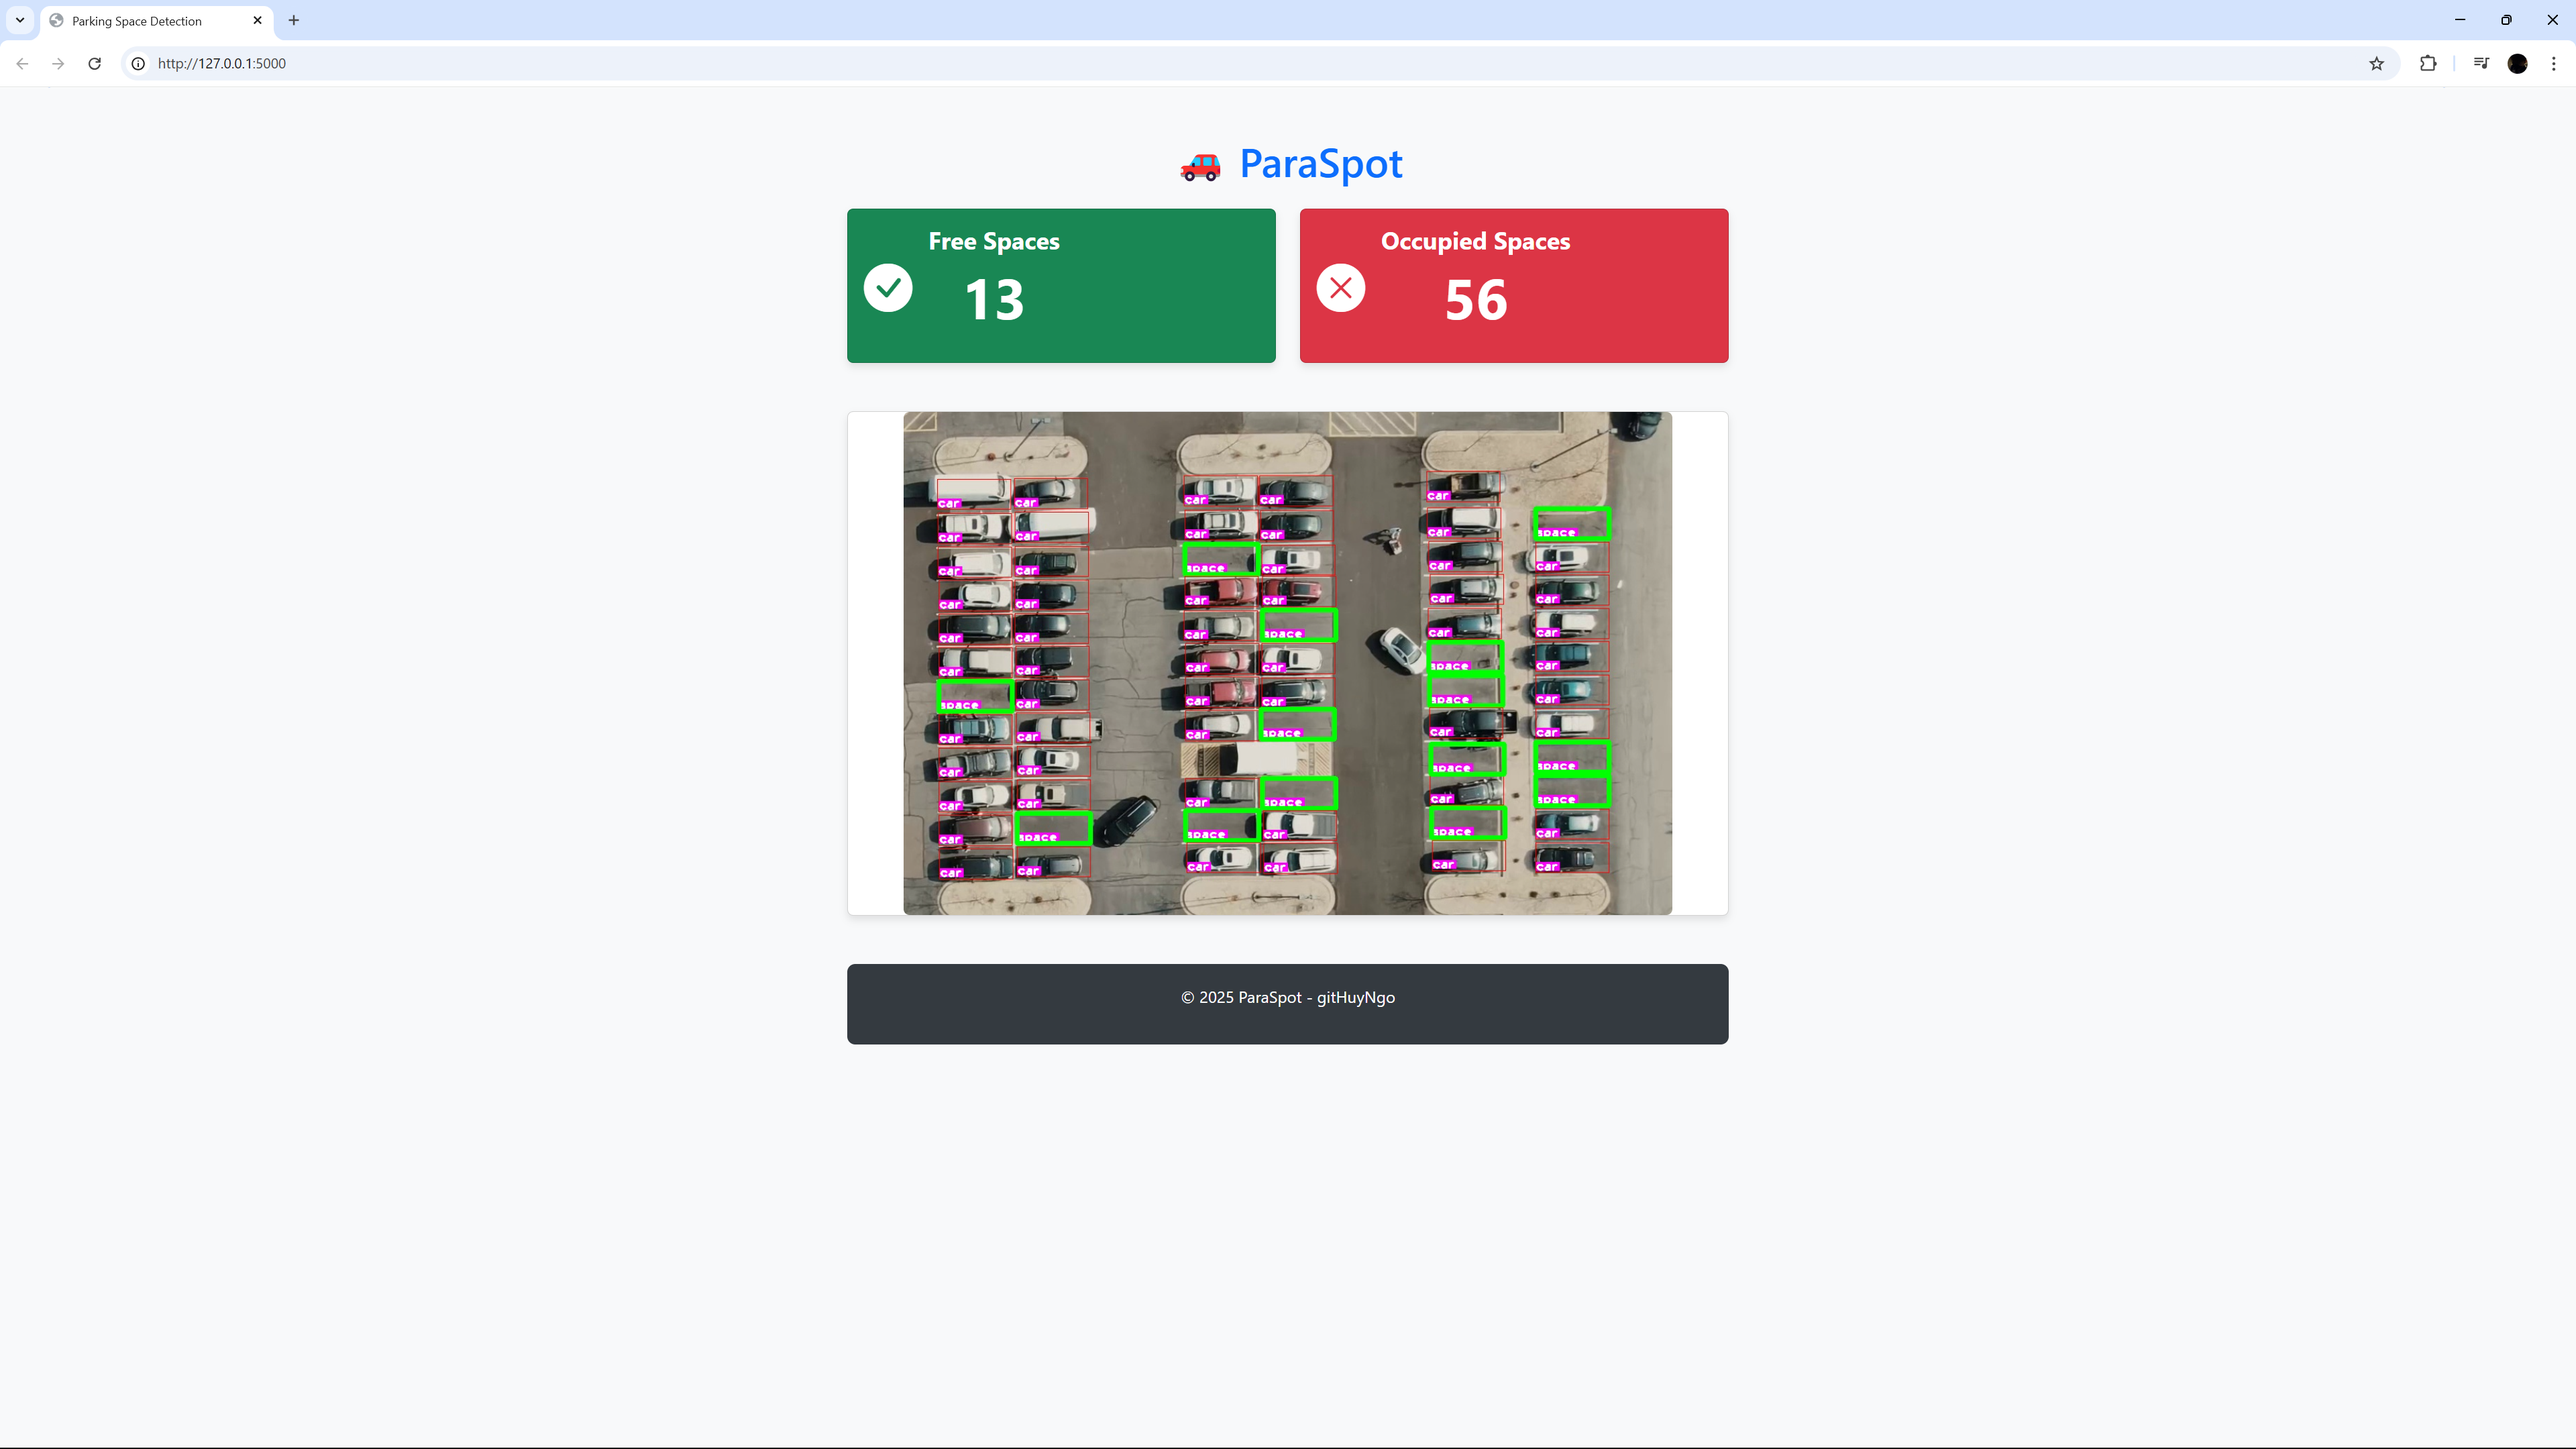
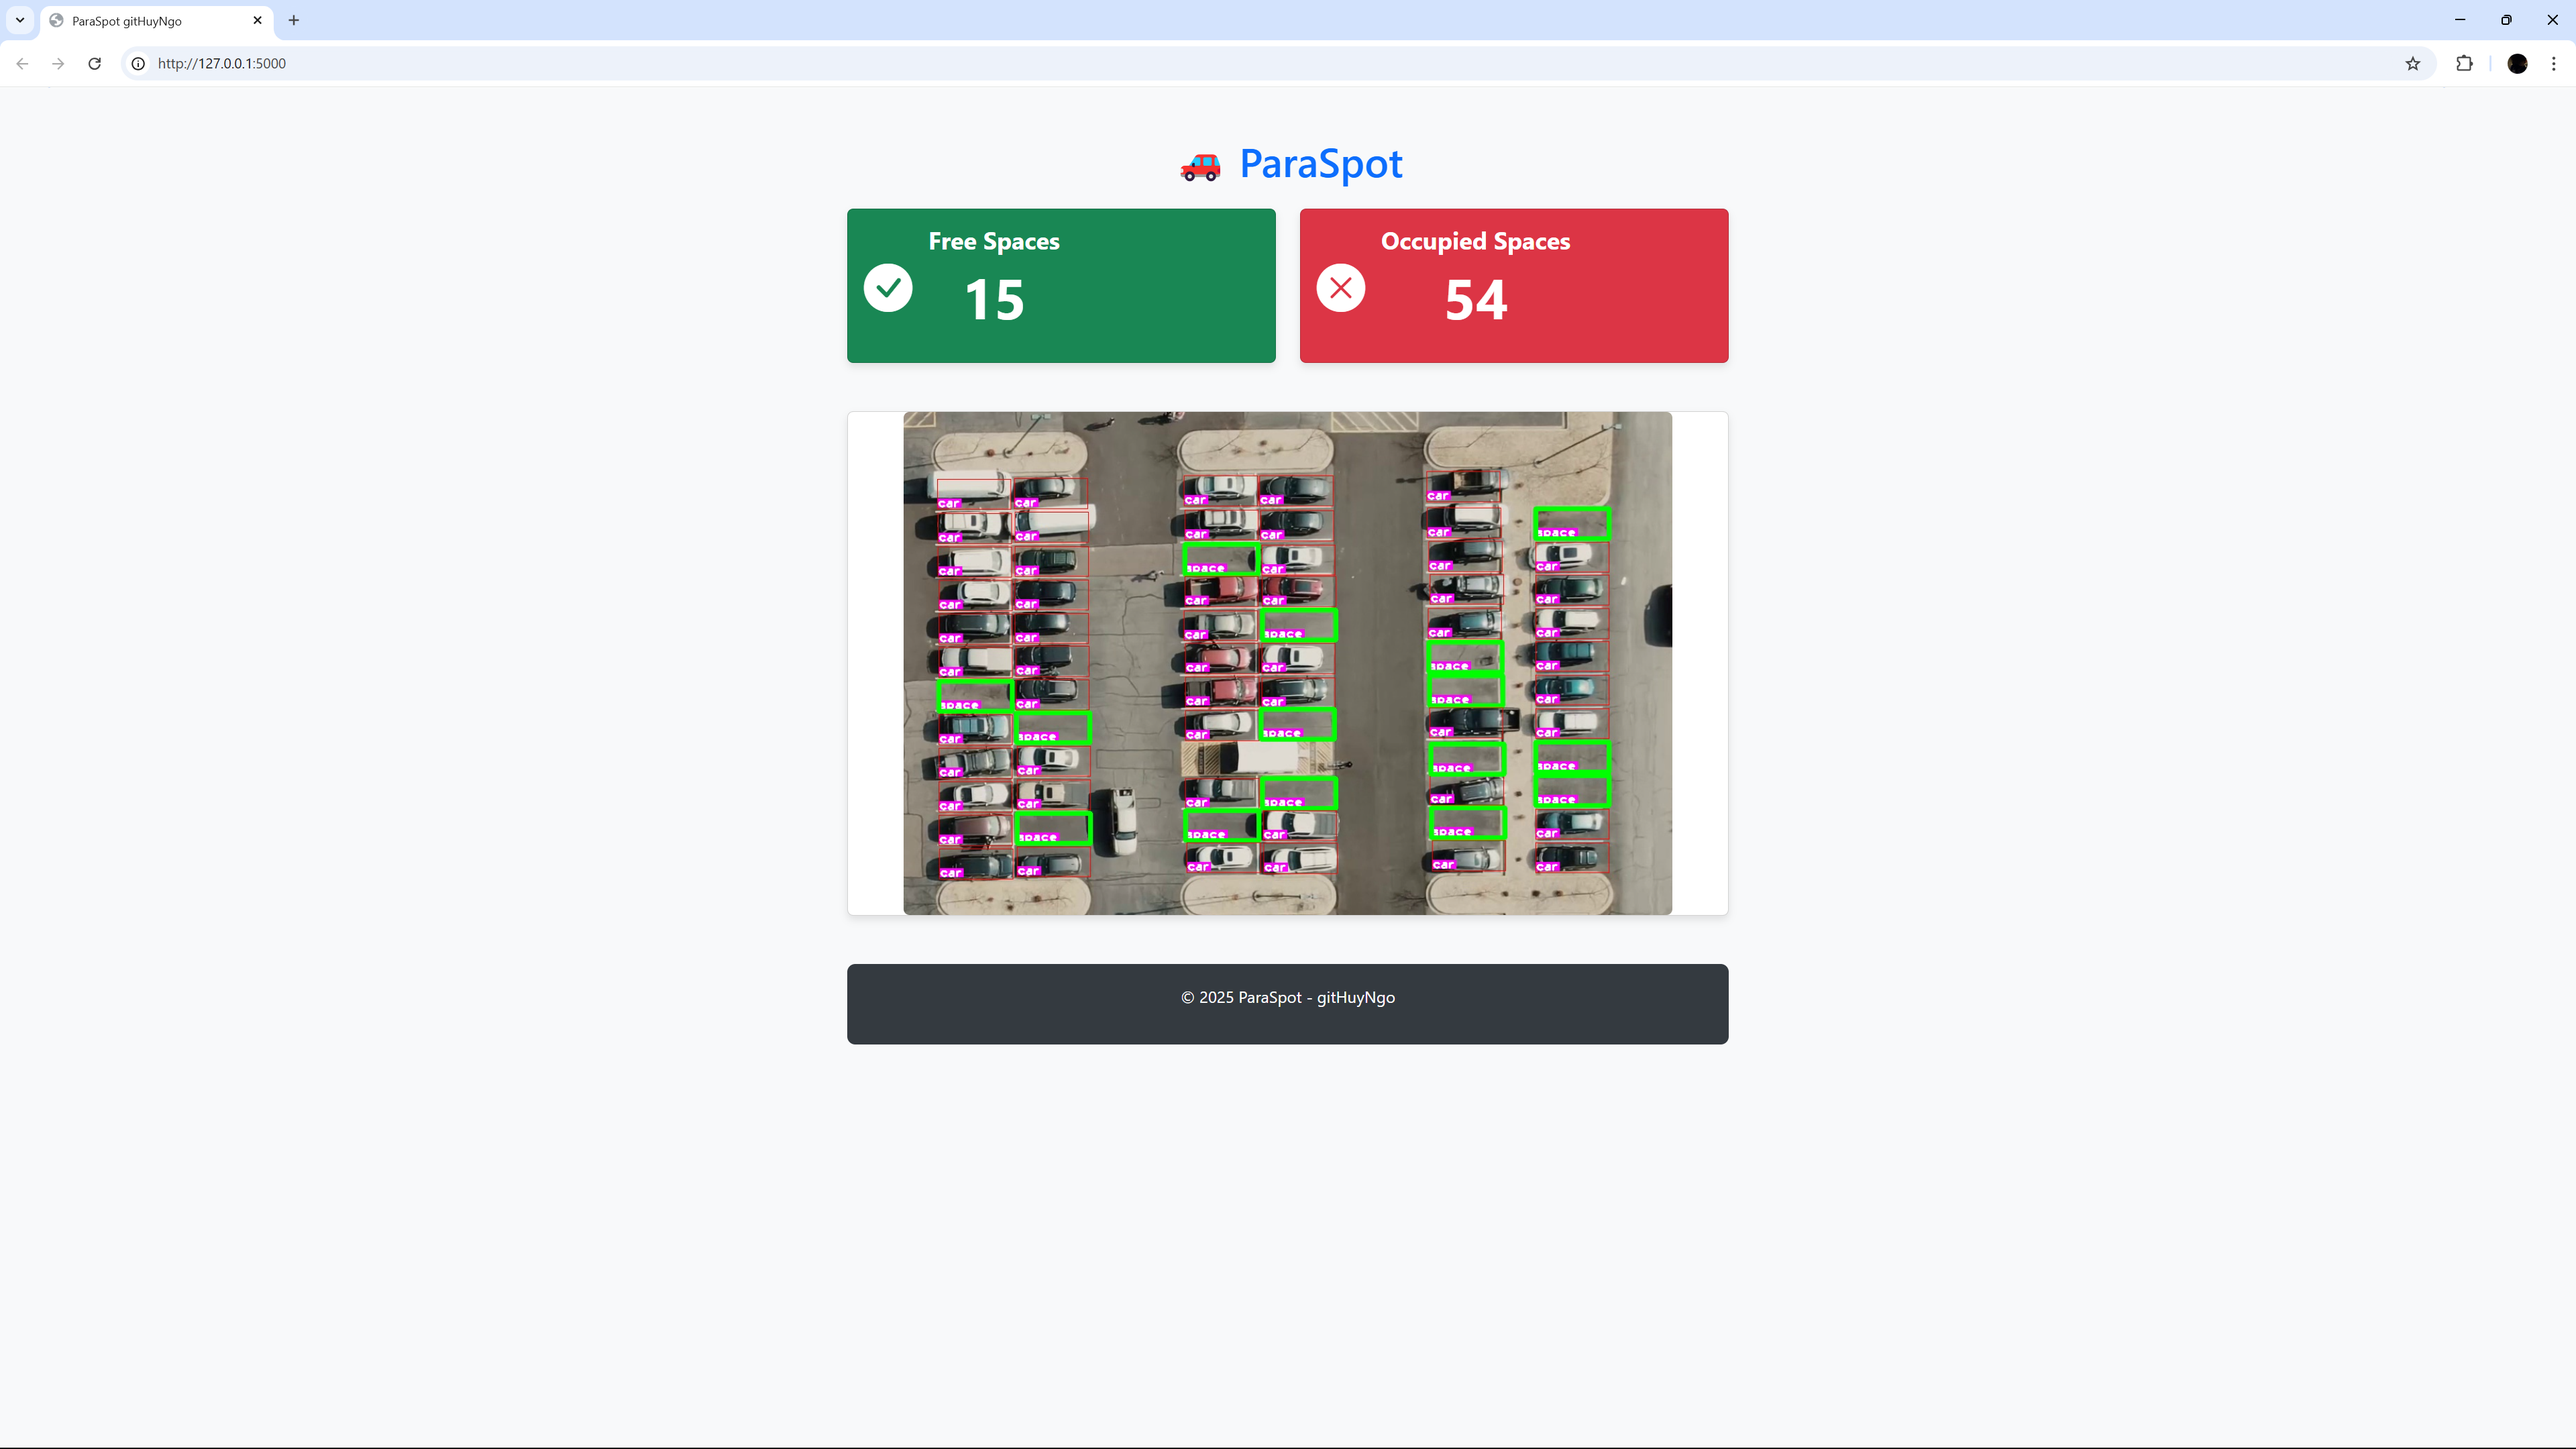
Update

diff --git a/templates/index.html b/templates/index.html
@@ -4,7 +4,7 @@
 <head>
     <meta charset="UTF-8">
     <meta name="viewport" content="width=device-width, initial-scale=1.0">
-    <title>Parking Space Detection</title>
+    <title>ParaSpot gitHuyNgo</title>
     <link href="https://cdn.jsdelivr.net/npm/bootstrap@5.3.0/dist/css/bootstrap.min.css" rel="stylesheet">
     <script src="https://code.jquery.com/jquery-3.6.0.min.js"></script>
     <style>

diff --git a/README.md b/README.md
@@ -6,8 +6,7 @@ This is a **real-time parking space detection system** that uses OpenCV and Flas
 
 ## 📷 Project Preview
 ParaSpot Preview
-![image](https://github.com/user-attachments/assets/8f94df20-a9c9-481b-a678-e05102368e1b)
-
+![preview](https://github.com/user-attachments/assets/426cea79-1df7-4e0b-9395-dd8dd714224d)
 
 ---
 
